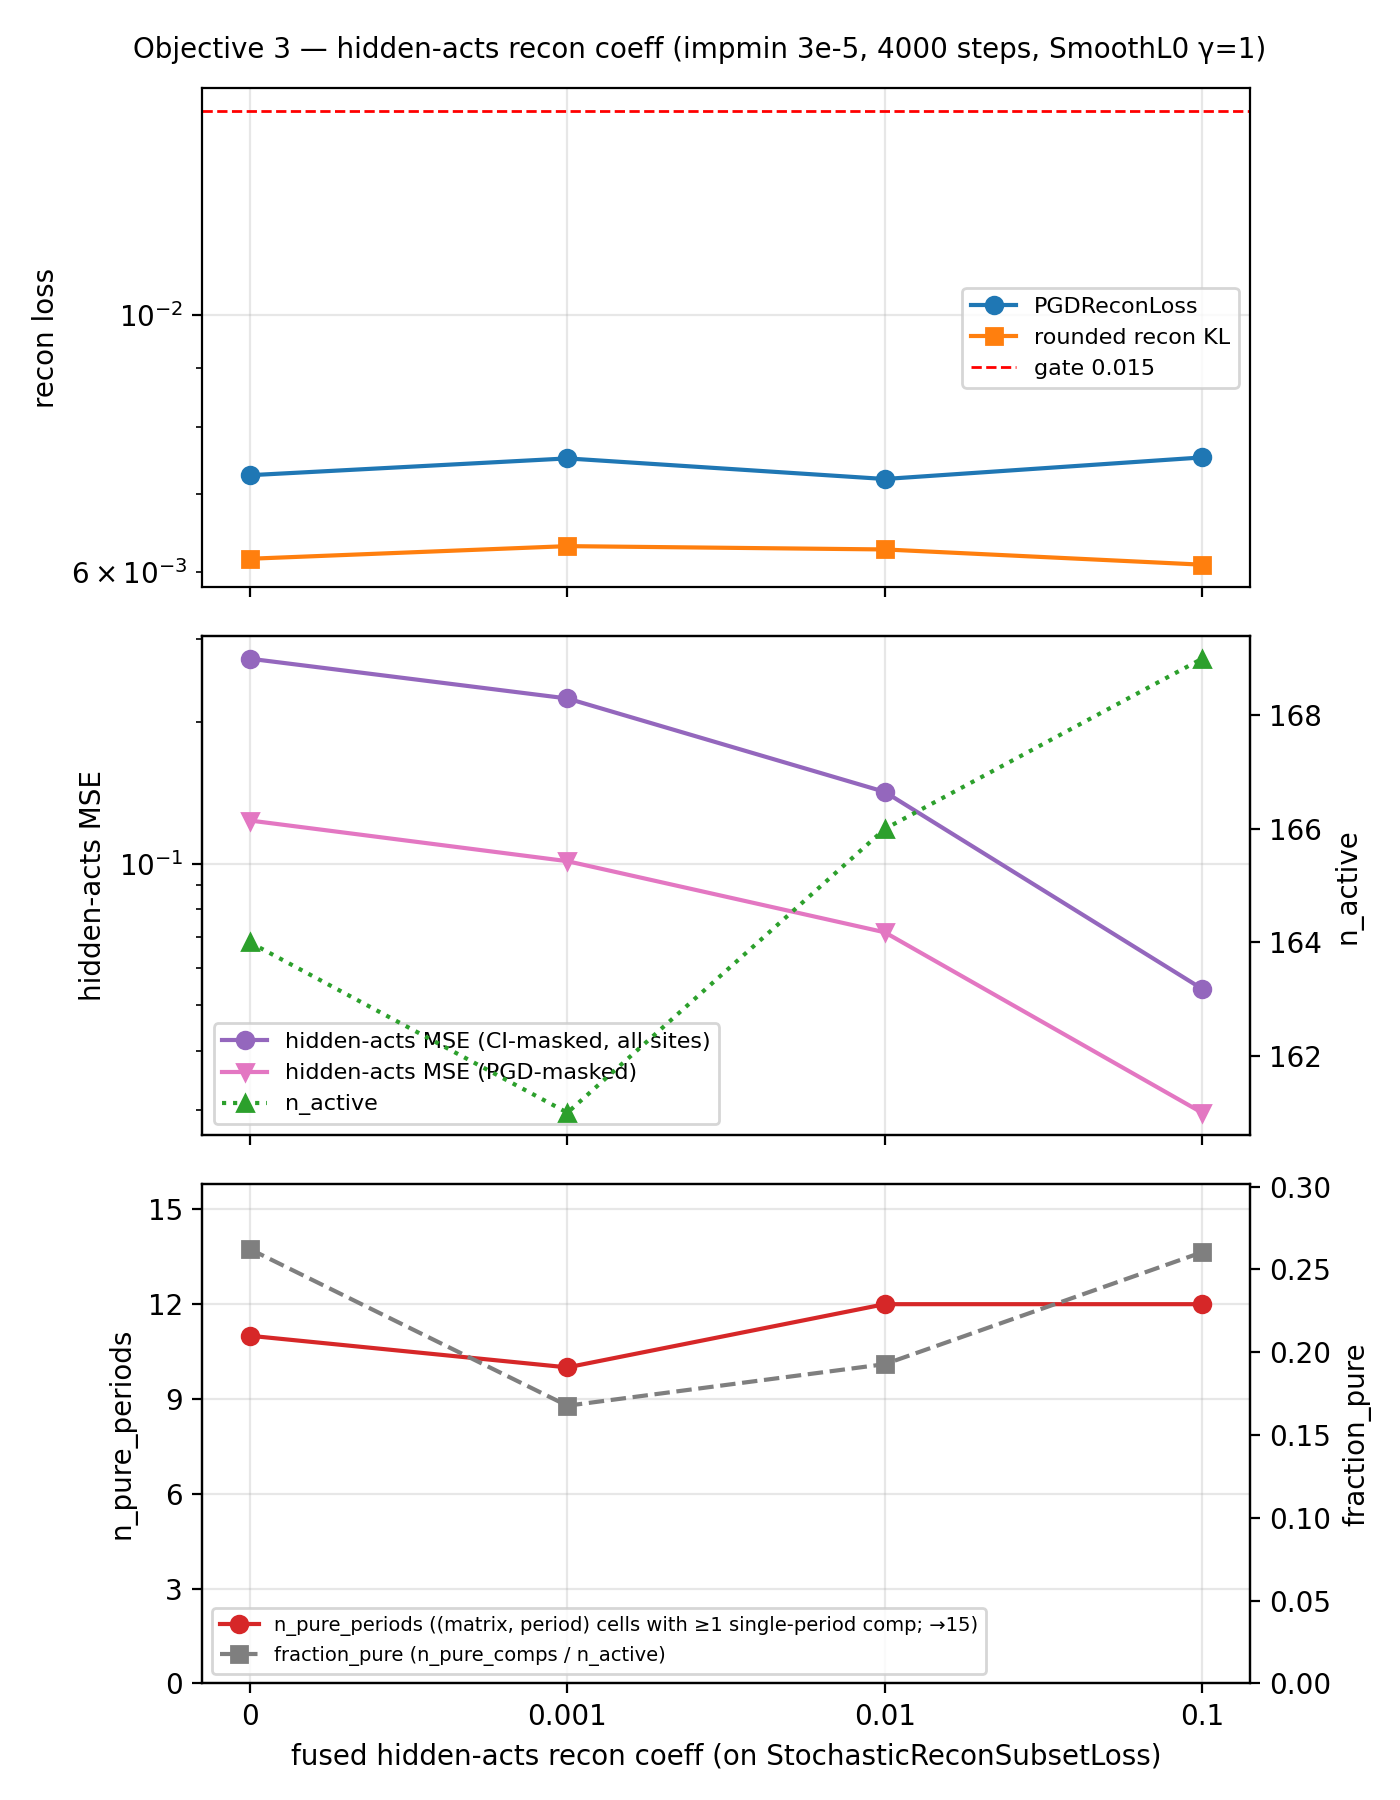
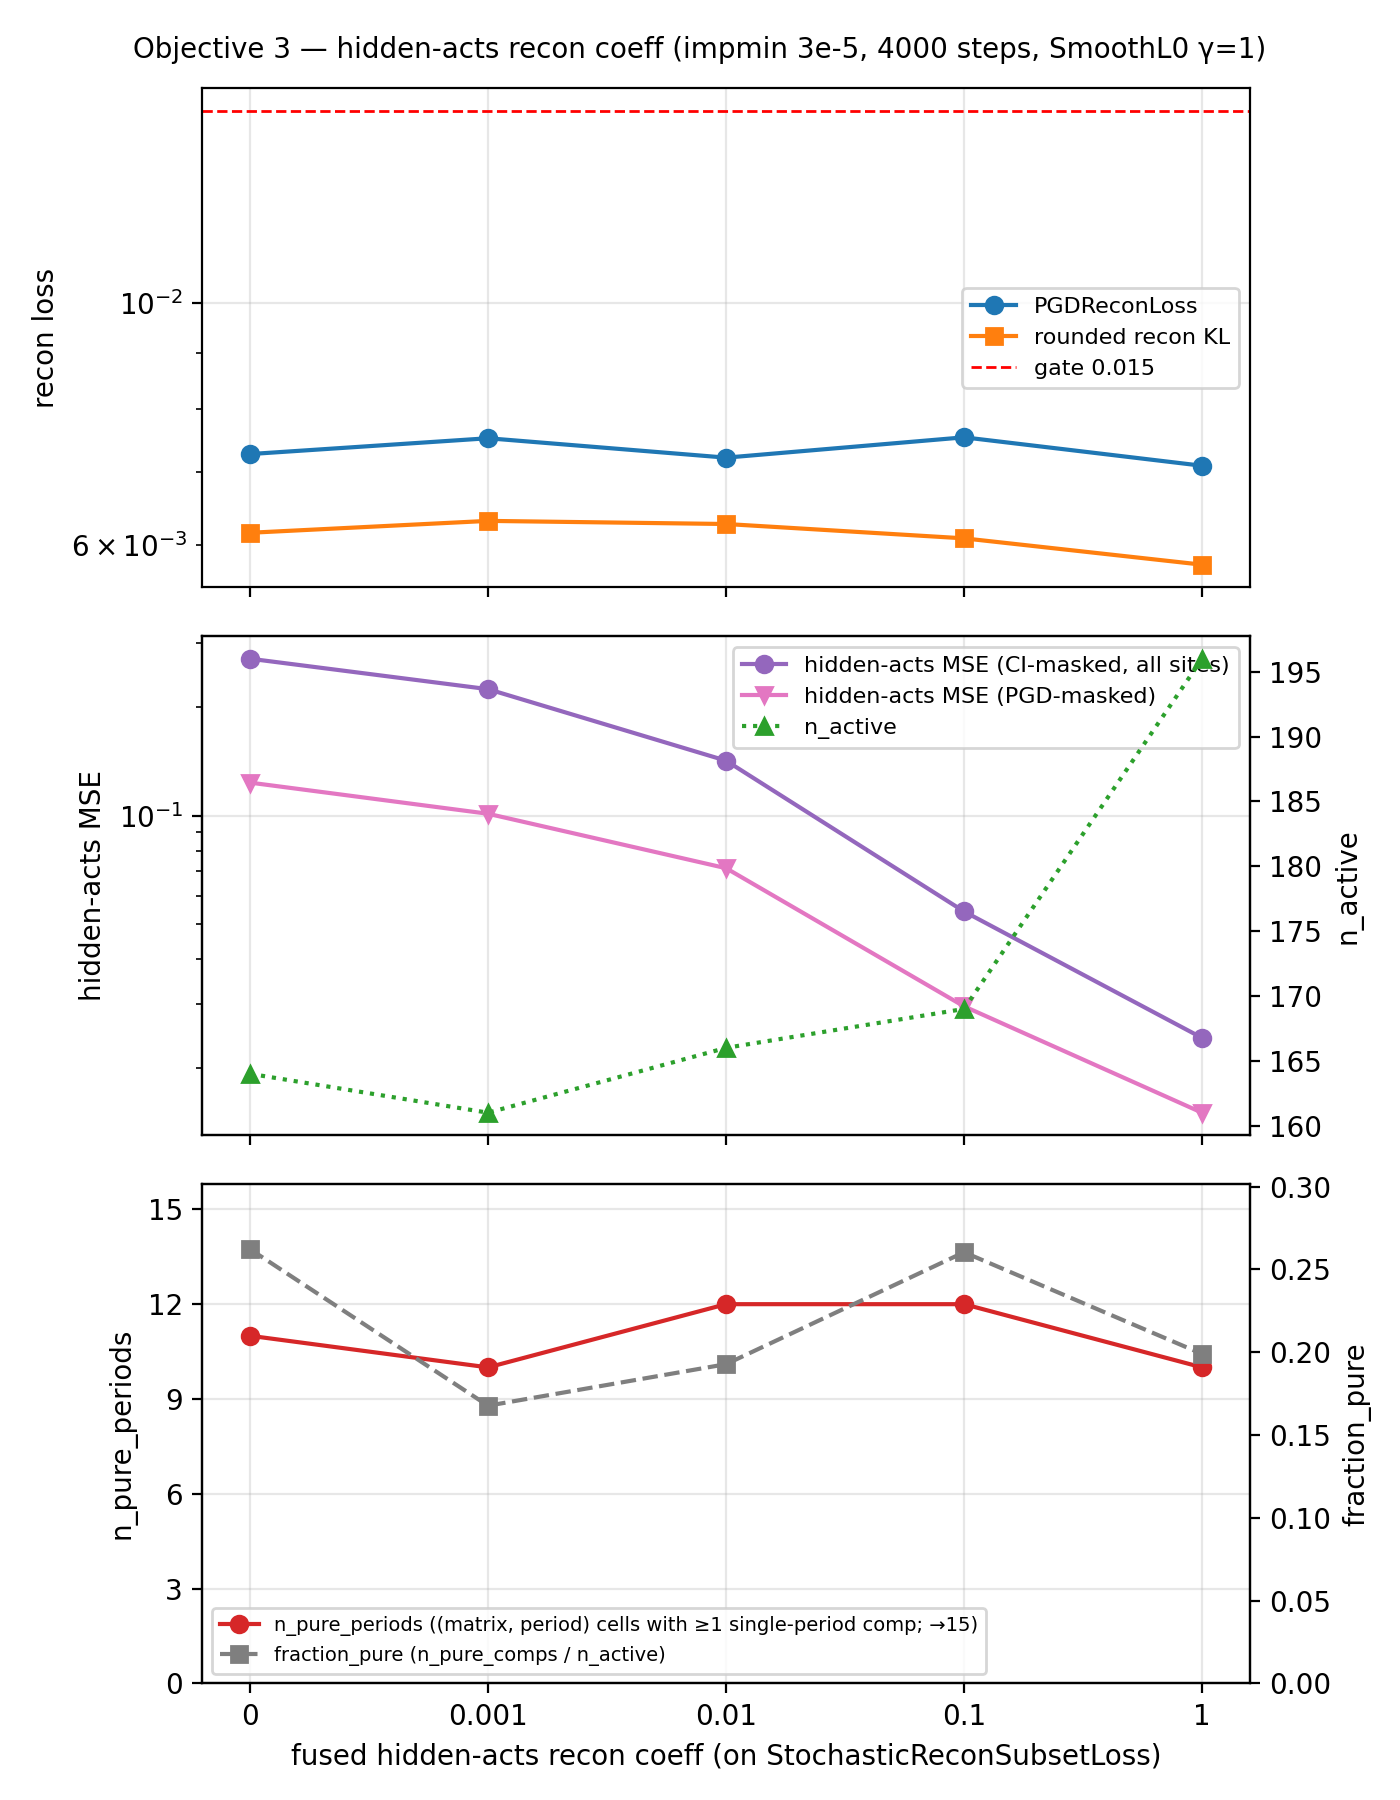
docs(notes): Objective 3 fifth dose — hid 1.0 overshoots, 0.1 confirmed winner
Claude-Session: https://claude.ai/code/session_01Q1RjvPNwD1ZD4rRrEbxv1y

diff --git a/notes/period_separation/report.md b/notes/period_separation/report.md
@@ -130,7 +130,8 @@ recipe (which doubles as the 0 arm). Figure:
 | impmin3e-5 (0) | 0.00727 | 0.00616 | 164 | 0.272 | 11 | 0.26 |
 | hid0.001 | 0.00752 | 0.00631 | 161 | 0.224 | 10 | 0.17 |
 | hid0.01 | 0.00722 | 0.00627 | 166 | 0.142 | 12 | 0.19 |
-| hid0.1 | 0.00753 | 0.00609 | 169 | **0.054** | **12** | **0.26** |
+| hid0.1 | 0.00753 | 0.00609 | 169 | 0.054 | **12** | **0.26** |
+| hid1 | 0.00709 | 0.00576 | 196 | **0.024** | 10 | 0.20 |
 
 Readings:
 
@@ -145,9 +146,13 @@ Readings:
   (0-arm: 3) — leaving only up_proj-{T2, T20} and down_proj-T20 uncovered. The 0.001
   arm is slightly *worse* than 0 (10/15, fraction 0.17) — the weak dose perturbs
   without constraining.
+- **Coeff 1.0 overshoots**: hidden-acts MSE keeps falling (0.024, best of the sweep,
+  with the best recon 0.00709) but purity regresses to 10/15 (gate_proj drops back to
+  3 pure periods, T20 pure disappears outside down_proj) and n_active creeps up to
+  196. The purity dose–response is an inverted U peaking at 0.1.
 
-**Winner: hid coeff 0.1** for the rest of the series — equal recon, much tighter
-per-site fidelity, and the best purity of the sweep.
+**Winner: hid coeff 0.1** for the rest of the series — near-equal recon, much tighter
+per-site fidelity, and the best purity of the sweep (12/15) at both neighbors' expense.
 
 
 
